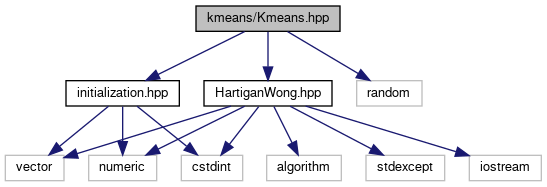
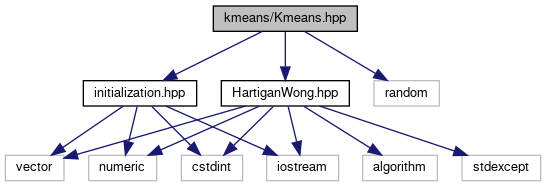
Deploying to gh-pages from @ LTLA/CppKmeans@2d391ecacfeafa24bfdc393e0a3e87b4211ba4c6 🚀

diff --git a/docs/initialization_8hpp_source.html b/docs/initialization_8hpp_source.html
@@ -77,109 +77,112 @@ $(function() {
 <div class="line"><a name="l00004"></a><span class="lineno">    4</span>&#160;<span class="preprocessor">#include &lt;vector&gt;</span></div>
 <div class="line"><a name="l00005"></a><span class="lineno">    5</span>&#160;<span class="preprocessor">#include &lt;cstdint&gt;</span></div>
 <div class="line"><a name="l00006"></a><span class="lineno">    6</span>&#160;<span class="preprocessor">#include &lt;numeric&gt;</span></div>
-<div class="line"><a name="l00007"></a><span class="lineno">    7</span>&#160; </div>
-<div class="line"><a name="l00014"></a><span class="lineno">   14</span>&#160;<span class="keyword">namespace </span>kmeans {</div>
-<div class="line"><a name="l00015"></a><span class="lineno">   15</span>&#160; </div>
-<div class="line"><a name="l00019"></a><span class="lineno">   19</span>&#160;<span class="keyword">template</span>&lt;<span class="keyword">class</span> ENGINE&gt;</div>
-<div class="line"><a name="l00020"></a><span class="lineno">   20</span>&#160;<span class="keywordtype">double</span> uniform01 (ENGINE&amp; eng) {</div>
-<div class="line"><a name="l00021"></a><span class="lineno">   21</span>&#160;    <span class="comment">// Stolen from Boost.</span></div>
-<div class="line"><a name="l00022"></a><span class="lineno">   22</span>&#160;    <span class="keyword">const</span> <span class="keywordtype">double</span> factor = 1.0 / <span class="keyword">static_cast&lt;</span><span class="keywordtype">double</span><span class="keyword">&gt;</span>((eng.max)()-(eng.min)());</div>
-<div class="line"><a name="l00023"></a><span class="lineno">   23</span>&#160;    <span class="keywordtype">double</span> result;</div>
-<div class="line"><a name="l00024"></a><span class="lineno">   24</span>&#160;    <span class="keywordflow">do</span> {</div>
-<div class="line"><a name="l00025"></a><span class="lineno">   25</span>&#160;        result = <span class="keyword">static_cast&lt;</span><span class="keywordtype">double</span><span class="keyword">&gt;</span>(eng() - (eng.min)()) * factor;</div>
-<div class="line"><a name="l00026"></a><span class="lineno">   26</span>&#160;    } <span class="keywordflow">while</span> (result == 1.0);</div>
-<div class="line"><a name="l00027"></a><span class="lineno">   27</span>&#160;    <span class="keywordflow">return</span> result;</div>
-<div class="line"><a name="l00028"></a><span class="lineno">   28</span>&#160;}</div>
-<div class="line"><a name="l00057"></a><span class="lineno">   57</span>&#160;<span class="keyword">template</span>&lt;<span class="keyword">class</span> ENGINE&gt;</div>
-<div class="line"><a name="l00058"></a><span class="lineno"><a class="line" href="initialization_8hpp.html#a7c2b486f25d954fd2a90846ea658e4c6">   58</a></span>&#160;std::vector&lt;int&gt; <a class="code" href="initialization_8hpp.html#a7c2b486f25d954fd2a90846ea658e4c6">weighted_initialization</a>(<span class="keywordtype">int</span> nd, <span class="keywordtype">int</span> no, <span class="keyword">const</span> <span class="keywordtype">double</span>* data, <span class="keywordtype">int</span> ncenters, ENGINE&amp; eng) {</div>
-<div class="line"><a name="l00059"></a><span class="lineno">   59</span>&#160;    std::vector&lt;int&gt; targets(no);</div>
-<div class="line"><a name="l00060"></a><span class="lineno">   60</span>&#160;    std::vector&lt;double&gt; mindist(no, 1);</div>
-<div class="line"><a name="l00061"></a><span class="lineno">   61</span>&#160;    std::vector&lt;double&gt; cumulative(no);</div>
-<div class="line"><a name="l00062"></a><span class="lineno">   62</span>&#160;    std::vector&lt;uint8_t&gt; chosen(no);</div>
-<div class="line"><a name="l00063"></a><span class="lineno">   63</span>&#160;    std::vector&lt;int&gt; sofar;</div>
-<div class="line"><a name="l00064"></a><span class="lineno">   64</span>&#160;    sofar.reserve(ncenters);</div>
-<div class="line"><a name="l00065"></a><span class="lineno">   65</span>&#160; </div>
-<div class="line"><a name="l00066"></a><span class="lineno">   66</span>&#160;    <span class="keywordflow">for</span> (<span class="keywordtype">int</span> cen = 0; cen &lt; ncenters; ++cen) {</div>
-<div class="line"><a name="l00067"></a><span class="lineno">   67</span>&#160;        <span class="keywordtype">int</span> counter = 0;</div>
-<div class="line"><a name="l00068"></a><span class="lineno">   68</span>&#160;        <span class="keywordflow">if</span> (!sofar.empty()) {</div>
-<div class="line"><a name="l00069"></a><span class="lineno">   69</span>&#160;            <span class="keywordflow">for</span> (<span class="keywordtype">int</span> obs = 0; obs &lt; no; ++obs) {</div>
-<div class="line"><a name="l00070"></a><span class="lineno">   70</span>&#160;                <span class="keywordflow">if</span> (!chosen[obs]) {</div>
-<div class="line"><a name="l00071"></a><span class="lineno">   71</span>&#160;                    targets[counter] = obs;</div>
-<div class="line"><a name="l00072"></a><span class="lineno">   72</span>&#160;                    <span class="keywordtype">double</span>&amp; curmin = mindist[counter];</div>
-<div class="line"><a name="l00073"></a><span class="lineno">   73</span>&#160;                    curmin = -1;</div>
-<div class="line"><a name="l00074"></a><span class="lineno">   74</span>&#160; </div>
-<div class="line"><a name="l00075"></a><span class="lineno">   75</span>&#160;                    <span class="keywordflow">for</span> (<span class="keyword">auto</span> so : sofar) {</div>
-<div class="line"><a name="l00076"></a><span class="lineno">   76</span>&#160;                        <span class="keyword">const</span> <span class="keywordtype">double</span>* acopy = data + obs * nd;</div>
-<div class="line"><a name="l00077"></a><span class="lineno">   77</span>&#160;                        <span class="keyword">const</span> <span class="keywordtype">double</span>* scopy = data + so * nd;</div>
-<div class="line"><a name="l00078"></a><span class="lineno">   78</span>&#160;                        <span class="keywordtype">double</span> r2 = 0;</div>
-<div class="line"><a name="l00079"></a><span class="lineno">   79</span>&#160;                        <span class="keywordflow">for</span> (<span class="keywordtype">int</span> dim = 0; dim &lt; nd; ++dim, ++acopy, ++scopy) {</div>
-<div class="line"><a name="l00080"></a><span class="lineno">   80</span>&#160;                            r2 += (*acopy - *scopy) * (*acopy - *scopy);</div>
-<div class="line"><a name="l00081"></a><span class="lineno">   81</span>&#160;                        }</div>
-<div class="line"><a name="l00082"></a><span class="lineno">   82</span>&#160; </div>
-<div class="line"><a name="l00083"></a><span class="lineno">   83</span>&#160;                        <span class="keywordflow">if</span> (curmin &lt; 0 || r2 &lt; curmin) {</div>
-<div class="line"><a name="l00084"></a><span class="lineno">   84</span>&#160;                            curmin = r2;</div>
-<div class="line"><a name="l00085"></a><span class="lineno">   85</span>&#160;                        }</div>
+<div class="line"><a name="l00007"></a><span class="lineno">    7</span>&#160;<span class="preprocessor">#include &lt;iostream&gt;</span></div>
+<div class="line"><a name="l00008"></a><span class="lineno">    8</span>&#160; </div>
+<div class="line"><a name="l00015"></a><span class="lineno">   15</span>&#160;<span class="keyword">namespace </span>kmeans {</div>
+<div class="line"><a name="l00016"></a><span class="lineno">   16</span>&#160; </div>
+<div class="line"><a name="l00020"></a><span class="lineno">   20</span>&#160;<span class="keyword">template</span>&lt;<span class="keyword">class</span> ENGINE&gt;</div>
+<div class="line"><a name="l00021"></a><span class="lineno">   21</span>&#160;<span class="keywordtype">double</span> uniform01 (ENGINE&amp; eng) {</div>
+<div class="line"><a name="l00022"></a><span class="lineno">   22</span>&#160;    <span class="comment">// Stolen from Boost.</span></div>
+<div class="line"><a name="l00023"></a><span class="lineno">   23</span>&#160;    <span class="keyword">const</span> <span class="keywordtype">double</span> factor = 1.0 / <span class="keyword">static_cast&lt;</span><span class="keywordtype">double</span><span class="keyword">&gt;</span>((eng.max)()-(eng.min)());</div>
+<div class="line"><a name="l00024"></a><span class="lineno">   24</span>&#160;    <span class="keywordtype">double</span> result;</div>
+<div class="line"><a name="l00025"></a><span class="lineno">   25</span>&#160;    <span class="keywordflow">do</span> {</div>
+<div class="line"><a name="l00026"></a><span class="lineno">   26</span>&#160;        result = <span class="keyword">static_cast&lt;</span><span class="keywordtype">double</span><span class="keyword">&gt;</span>(eng() - (eng.min)()) * factor;</div>
+<div class="line"><a name="l00027"></a><span class="lineno">   27</span>&#160;    } <span class="keywordflow">while</span> (result == 1.0);</div>
+<div class="line"><a name="l00028"></a><span class="lineno">   28</span>&#160;    <span class="keywordflow">return</span> result;</div>
+<div class="line"><a name="l00029"></a><span class="lineno">   29</span>&#160;}</div>
+<div class="line"><a name="l00058"></a><span class="lineno">   58</span>&#160;<span class="keyword">template</span>&lt;<span class="keyword">class</span> ENGINE&gt;</div>
+<div class="line"><a name="l00059"></a><span class="lineno"><a class="line" href="initialization_8hpp.html#a7c2b486f25d954fd2a90846ea658e4c6">   59</a></span>&#160;std::vector&lt;int&gt; <a class="code" href="initialization_8hpp.html#a7c2b486f25d954fd2a90846ea658e4c6">weighted_initialization</a>(<span class="keywordtype">int</span> nd, <span class="keywordtype">int</span> no, <span class="keyword">const</span> <span class="keywordtype">double</span>* data, <span class="keywordtype">int</span> ncenters, ENGINE&amp; eng) {</div>
+<div class="line"><a name="l00060"></a><span class="lineno">   60</span>&#160;    std::vector&lt;int&gt; targets(no);</div>
+<div class="line"><a name="l00061"></a><span class="lineno">   61</span>&#160;    std::vector&lt;double&gt; mindist(no, 1);</div>
+<div class="line"><a name="l00062"></a><span class="lineno">   62</span>&#160;    std::vector&lt;double&gt; cumulative(no);</div>
+<div class="line"><a name="l00063"></a><span class="lineno">   63</span>&#160;    std::vector&lt;uint8_t&gt; chosen(no);</div>
+<div class="line"><a name="l00064"></a><span class="lineno">   64</span>&#160;    std::vector&lt;int&gt; sofar;</div>
+<div class="line"><a name="l00065"></a><span class="lineno">   65</span>&#160;    sofar.reserve(ncenters);</div>
+<div class="line"><a name="l00066"></a><span class="lineno">   66</span>&#160; </div>
+<div class="line"><a name="l00067"></a><span class="lineno">   67</span>&#160;    <span class="keywordflow">for</span> (<span class="keywordtype">int</span> cen = 0; cen &lt; ncenters; ++cen) {</div>
+<div class="line"><a name="l00068"></a><span class="lineno">   68</span>&#160;        <span class="keywordtype">int</span> counter = 0;</div>
+<div class="line"><a name="l00069"></a><span class="lineno">   69</span>&#160;        <span class="keywordflow">if</span> (!sofar.empty()) {</div>
+<div class="line"><a name="l00070"></a><span class="lineno">   70</span>&#160;            <span class="keyword">auto</span> last = sofar.back();</div>
+<div class="line"><a name="l00071"></a><span class="lineno">   71</span>&#160;            <span class="keywordtype">int</span> prevcounter = 0;</div>
+<div class="line"><a name="l00072"></a><span class="lineno">   72</span>&#160; </div>
+<div class="line"><a name="l00073"></a><span class="lineno">   73</span>&#160;            <span class="keywordflow">for</span> (<span class="keywordtype">int</span> obs = 0; obs &lt; no; ++obs) {</div>
+<div class="line"><a name="l00074"></a><span class="lineno">   74</span>&#160;                <span class="keywordflow">if</span> (!chosen[obs]) {</div>
+<div class="line"><a name="l00075"></a><span class="lineno">   75</span>&#160;                    <span class="keyword">const</span> <span class="keywordtype">double</span>* acopy = data + obs * nd;</div>
+<div class="line"><a name="l00076"></a><span class="lineno">   76</span>&#160;                    <span class="keyword">const</span> <span class="keywordtype">double</span>* scopy = data + last * nd;</div>
+<div class="line"><a name="l00077"></a><span class="lineno">   77</span>&#160;                    <span class="keywordtype">double</span> r2 = 0;</div>
+<div class="line"><a name="l00078"></a><span class="lineno">   78</span>&#160;                    <span class="keywordflow">for</span> (<span class="keywordtype">int</span> dim = 0; dim &lt; nd; ++dim, ++acopy, ++scopy) {</div>
+<div class="line"><a name="l00079"></a><span class="lineno">   79</span>&#160;                        r2 += (*acopy - *scopy) * (*acopy - *scopy);</div>
+<div class="line"><a name="l00080"></a><span class="lineno">   80</span>&#160;                    }</div>
+<div class="line"><a name="l00081"></a><span class="lineno">   81</span>&#160; </div>
+<div class="line"><a name="l00082"></a><span class="lineno">   82</span>&#160;                    <span class="keywordflow">if</span> (cen == 1 || r2 &lt; mindist[prevcounter]) {</div>
+<div class="line"><a name="l00083"></a><span class="lineno">   83</span>&#160;                        mindist[counter] = r2;</div>
+<div class="line"><a name="l00084"></a><span class="lineno">   84</span>&#160;                    } <span class="keywordflow">else</span> <span class="keywordflow">if</span> (counter != prevcounter) {</div>
+<div class="line"><a name="l00085"></a><span class="lineno">   85</span>&#160;                        mindist[counter] = mindist[prevcounter];</div>
 <div class="line"><a name="l00086"></a><span class="lineno">   86</span>&#160;                    }</div>
-<div class="line"><a name="l00087"></a><span class="lineno">   87</span>&#160; </div>
+<div class="line"><a name="l00087"></a><span class="lineno">   87</span>&#160;                    targets[counter] = obs;</div>
 <div class="line"><a name="l00088"></a><span class="lineno">   88</span>&#160;                    ++counter;</div>
-<div class="line"><a name="l00089"></a><span class="lineno">   89</span>&#160;                }</div>
-<div class="line"><a name="l00090"></a><span class="lineno">   90</span>&#160;            }</div>
-<div class="line"><a name="l00091"></a><span class="lineno">   91</span>&#160;        } <span class="keywordflow">else</span> {</div>
-<div class="line"><a name="l00092"></a><span class="lineno">   92</span>&#160;            std::iota(targets.begin(), targets.end(), 0);</div>
-<div class="line"><a name="l00093"></a><span class="lineno">   93</span>&#160;            counter = no;</div>
-<div class="line"><a name="l00094"></a><span class="lineno">   94</span>&#160;        }</div>
-<div class="line"><a name="l00095"></a><span class="lineno">   95</span>&#160; </div>
-<div class="line"><a name="l00096"></a><span class="lineno">   96</span>&#160;        <span class="keywordflow">if</span> (!counter) {</div>
-<div class="line"><a name="l00097"></a><span class="lineno">   97</span>&#160;            <span class="keywordflow">break</span>;</div>
-<div class="line"><a name="l00098"></a><span class="lineno">   98</span>&#160;        }</div>
-<div class="line"><a name="l00099"></a><span class="lineno">   99</span>&#160; </div>
-<div class="line"><a name="l00100"></a><span class="lineno">  100</span>&#160;        cumulative[0] = mindist[0];</div>
-<div class="line"><a name="l00101"></a><span class="lineno">  101</span>&#160;        <span class="keywordflow">for</span> (<span class="keywordtype">int</span> i = 1; i &lt; counter; ++i) {</div>
-<div class="line"><a name="l00102"></a><span class="lineno">  102</span>&#160;            cumulative[i] = cumulative[i-1] + mindist[i];</div>
-<div class="line"><a name="l00103"></a><span class="lineno">  103</span>&#160;        }</div>
-<div class="line"><a name="l00104"></a><span class="lineno">  104</span>&#160; </div>
-<div class="line"><a name="l00105"></a><span class="lineno">  105</span>&#160;        <span class="keyword">const</span> <span class="keywordtype">double</span> total = cumulative[counter-1];</div>
-<div class="line"><a name="l00106"></a><span class="lineno">  106</span>&#160;        <span class="keywordflow">if</span> (total == 0) { <span class="comment">// a.k.a. duplicates.</span></div>
-<div class="line"><a name="l00107"></a><span class="lineno">  107</span>&#160;            <span class="keywordflow">break</span>;</div>
-<div class="line"><a name="l00108"></a><span class="lineno">  108</span>&#160;        }</div>
-<div class="line"><a name="l00109"></a><span class="lineno">  109</span>&#160; </div>
-<div class="line"><a name="l00110"></a><span class="lineno">  110</span>&#160;        <span class="keyword">const</span> <span class="keywordtype">double</span> chosen_weight = total * uniform01(eng);</div>
-<div class="line"><a name="l00111"></a><span class="lineno">  111</span>&#160;        <span class="keyword">auto</span> chosen_pos = std::lower_bound(cumulative.begin(), cumulative.begin() + counter, chosen_weight);</div>
-<div class="line"><a name="l00112"></a><span class="lineno">  112</span>&#160;        <span class="keyword">auto</span> chosen_id = targets[chosen_pos - cumulative.begin()];</div>
-<div class="line"><a name="l00113"></a><span class="lineno">  113</span>&#160;        chosen[chosen_id] = <span class="keyword">true</span>;</div>
-<div class="line"><a name="l00114"></a><span class="lineno">  114</span>&#160;        sofar.push_back(chosen_id);</div>
-<div class="line"><a name="l00115"></a><span class="lineno">  115</span>&#160;    }</div>
-<div class="line"><a name="l00116"></a><span class="lineno">  116</span>&#160; </div>
-<div class="line"><a name="l00117"></a><span class="lineno">  117</span>&#160;    <span class="keywordflow">return</span> sofar;</div>
-<div class="line"><a name="l00118"></a><span class="lineno">  118</span>&#160;}</div>
+<div class="line"><a name="l00089"></a><span class="lineno">   89</span>&#160;                    ++prevcounter;</div>
+<div class="line"><a name="l00090"></a><span class="lineno">   90</span>&#160;                } <span class="keywordflow">else</span> <span class="keywordflow">if</span> (obs == last) {</div>
+<div class="line"><a name="l00091"></a><span class="lineno">   91</span>&#160;                    ++prevcounter;</div>
+<div class="line"><a name="l00092"></a><span class="lineno">   92</span>&#160;                }</div>
+<div class="line"><a name="l00093"></a><span class="lineno">   93</span>&#160;            }</div>
+<div class="line"><a name="l00094"></a><span class="lineno">   94</span>&#160;        } <span class="keywordflow">else</span> {</div>
+<div class="line"><a name="l00095"></a><span class="lineno">   95</span>&#160;            std::iota(targets.begin(), targets.end(), 0);</div>
+<div class="line"><a name="l00096"></a><span class="lineno">   96</span>&#160;            counter = no;</div>
+<div class="line"><a name="l00097"></a><span class="lineno">   97</span>&#160;        }</div>
+<div class="line"><a name="l00098"></a><span class="lineno">   98</span>&#160; </div>
+<div class="line"><a name="l00099"></a><span class="lineno">   99</span>&#160;        <span class="keywordflow">if</span> (!counter) {</div>
+<div class="line"><a name="l00100"></a><span class="lineno">  100</span>&#160;            <span class="keywordflow">break</span>;</div>
+<div class="line"><a name="l00101"></a><span class="lineno">  101</span>&#160;        }</div>
+<div class="line"><a name="l00102"></a><span class="lineno">  102</span>&#160; </div>
+<div class="line"><a name="l00103"></a><span class="lineno">  103</span>&#160;        cumulative[0] = mindist[0];</div>
+<div class="line"><a name="l00104"></a><span class="lineno">  104</span>&#160;        <span class="keywordflow">for</span> (<span class="keywordtype">int</span> i = 1; i &lt; counter; ++i) {</div>
+<div class="line"><a name="l00105"></a><span class="lineno">  105</span>&#160;            cumulative[i] = cumulative[i-1] + mindist[i];</div>
+<div class="line"><a name="l00106"></a><span class="lineno">  106</span>&#160;        }</div>
+<div class="line"><a name="l00107"></a><span class="lineno">  107</span>&#160; </div>
+<div class="line"><a name="l00108"></a><span class="lineno">  108</span>&#160;        <span class="keyword">const</span> <span class="keywordtype">double</span> total = cumulative[counter-1];</div>
+<div class="line"><a name="l00109"></a><span class="lineno">  109</span>&#160;        <span class="keywordflow">if</span> (total == 0) { <span class="comment">// a.k.a. duplicates.</span></div>
+<div class="line"><a name="l00110"></a><span class="lineno">  110</span>&#160;            <span class="keywordflow">break</span>;</div>
+<div class="line"><a name="l00111"></a><span class="lineno">  111</span>&#160;        }</div>
+<div class="line"><a name="l00112"></a><span class="lineno">  112</span>&#160; </div>
+<div class="line"><a name="l00113"></a><span class="lineno">  113</span>&#160;        <span class="keyword">const</span> <span class="keywordtype">double</span> chosen_weight = total * uniform01(eng);</div>
+<div class="line"><a name="l00114"></a><span class="lineno">  114</span>&#160;        <span class="keyword">auto</span> chosen_pos = std::lower_bound(cumulative.begin(), cumulative.begin() + counter, chosen_weight);</div>
+<div class="line"><a name="l00115"></a><span class="lineno">  115</span>&#160;        <span class="keyword">auto</span> chosen_id = targets[chosen_pos - cumulative.begin()];</div>
+<div class="line"><a name="l00116"></a><span class="lineno">  116</span>&#160;        chosen[chosen_id] = <span class="keyword">true</span>;</div>
+<div class="line"><a name="l00117"></a><span class="lineno">  117</span>&#160;        sofar.push_back(chosen_id);</div>
+<div class="line"><a name="l00118"></a><span class="lineno">  118</span>&#160;    }</div>
 <div class="line"><a name="l00119"></a><span class="lineno">  119</span>&#160; </div>
-<div class="line"><a name="l00135"></a><span class="lineno">  135</span>&#160;<span class="keyword">template</span>&lt;<span class="keyword">class</span> ENGINE&gt;</div>
-<div class="line"><a name="l00136"></a><span class="lineno"><a class="line" href="initialization_8hpp.html#a3c109f946286d0ec3a0d0d5de063d1ac">  136</a></span>&#160;std::vector&lt;int&gt; <a class="code" href="initialization_8hpp.html#a3c109f946286d0ec3a0d0d5de063d1ac">simple_initialization</a>(<span class="keywordtype">int</span> nd, <span class="keywordtype">int</span> no, <span class="keyword">const</span> <span class="keywordtype">double</span>* data, <span class="keywordtype">int</span> ncenters, ENGINE&amp; eng) {</div>
-<div class="line"><a name="l00137"></a><span class="lineno">  137</span>&#160;    std::vector&lt;int&gt; sofar;</div>
-<div class="line"><a name="l00138"></a><span class="lineno">  138</span>&#160; </div>
-<div class="line"><a name="l00139"></a><span class="lineno">  139</span>&#160;    <span class="keywordflow">if</span> (ncenters &gt;= no) {</div>
-<div class="line"><a name="l00140"></a><span class="lineno">  140</span>&#160;        sofar.resize(no);</div>
-<div class="line"><a name="l00141"></a><span class="lineno">  141</span>&#160;        std::iota(sofar.begin(), sofar.end(), 0);</div>
-<div class="line"><a name="l00142"></a><span class="lineno">  142</span>&#160;    } <span class="keywordflow">else</span> {</div>
-<div class="line"><a name="l00143"></a><span class="lineno">  143</span>&#160;        sofar.reserve(ncenters);</div>
-<div class="line"><a name="l00144"></a><span class="lineno">  144</span>&#160;        <span class="keywordtype">int</span> traversed = 0;</div>
-<div class="line"><a name="l00145"></a><span class="lineno">  145</span>&#160; </div>
-<div class="line"><a name="l00146"></a><span class="lineno">  146</span>&#160;        <span class="keywordflow">while</span> (sofar.size() &lt; <span class="keyword">static_cast&lt;</span><span class="keywordtype">size_t</span><span class="keyword">&gt;</span>(ncenters)) {</div>
-<div class="line"><a name="l00147"></a><span class="lineno">  147</span>&#160;            <span class="keywordflow">if</span> (<span class="keyword">static_cast&lt;</span><span class="keywordtype">double</span><span class="keyword">&gt;</span>(ncenters - sofar.size()) &gt; <span class="keyword">static_cast&lt;</span><span class="keywordtype">double</span><span class="keyword">&gt;</span>(no - traversed) * uniform01(eng)) {</div>
-<div class="line"><a name="l00148"></a><span class="lineno">  148</span>&#160;                sofar.push_back(traversed);</div>
-<div class="line"><a name="l00149"></a><span class="lineno">  149</span>&#160;            }</div>
-<div class="line"><a name="l00150"></a><span class="lineno">  150</span>&#160;            ++traversed;</div>
-<div class="line"><a name="l00151"></a><span class="lineno">  151</span>&#160;        }</div>
-<div class="line"><a name="l00152"></a><span class="lineno">  152</span>&#160;    }</div>
-<div class="line"><a name="l00153"></a><span class="lineno">  153</span>&#160; </div>
-<div class="line"><a name="l00154"></a><span class="lineno">  154</span>&#160;    <span class="keywordflow">return</span> sofar;</div>
-<div class="line"><a name="l00155"></a><span class="lineno">  155</span>&#160;}</div>
+<div class="line"><a name="l00120"></a><span class="lineno">  120</span>&#160;    <span class="keywordflow">return</span> sofar;</div>
+<div class="line"><a name="l00121"></a><span class="lineno">  121</span>&#160;}</div>
+<div class="line"><a name="l00122"></a><span class="lineno">  122</span>&#160; </div>
+<div class="line"><a name="l00138"></a><span class="lineno">  138</span>&#160;<span class="keyword">template</span>&lt;<span class="keyword">class</span> ENGINE&gt;</div>
+<div class="line"><a name="l00139"></a><span class="lineno"><a class="line" href="initialization_8hpp.html#a3c109f946286d0ec3a0d0d5de063d1ac">  139</a></span>&#160;std::vector&lt;int&gt; <a class="code" href="initialization_8hpp.html#a3c109f946286d0ec3a0d0d5de063d1ac">simple_initialization</a>(<span class="keywordtype">int</span> nd, <span class="keywordtype">int</span> no, <span class="keyword">const</span> <span class="keywordtype">double</span>* data, <span class="keywordtype">int</span> ncenters, ENGINE&amp; eng) {</div>
+<div class="line"><a name="l00140"></a><span class="lineno">  140</span>&#160;    std::vector&lt;int&gt; sofar;</div>
+<div class="line"><a name="l00141"></a><span class="lineno">  141</span>&#160; </div>
+<div class="line"><a name="l00142"></a><span class="lineno">  142</span>&#160;    <span class="keywordflow">if</span> (ncenters &gt;= no) {</div>
+<div class="line"><a name="l00143"></a><span class="lineno">  143</span>&#160;        sofar.resize(no);</div>
+<div class="line"><a name="l00144"></a><span class="lineno">  144</span>&#160;        std::iota(sofar.begin(), sofar.end(), 0);</div>
+<div class="line"><a name="l00145"></a><span class="lineno">  145</span>&#160;    } <span class="keywordflow">else</span> {</div>
+<div class="line"><a name="l00146"></a><span class="lineno">  146</span>&#160;        sofar.reserve(ncenters);</div>
+<div class="line"><a name="l00147"></a><span class="lineno">  147</span>&#160;        <span class="keywordtype">int</span> traversed = 0;</div>
+<div class="line"><a name="l00148"></a><span class="lineno">  148</span>&#160; </div>
+<div class="line"><a name="l00149"></a><span class="lineno">  149</span>&#160;        <span class="keywordflow">while</span> (sofar.size() &lt; <span class="keyword">static_cast&lt;</span><span class="keywordtype">size_t</span><span class="keyword">&gt;</span>(ncenters)) {</div>
+<div class="line"><a name="l00150"></a><span class="lineno">  150</span>&#160;            <span class="keywordflow">if</span> (<span class="keyword">static_cast&lt;</span><span class="keywordtype">double</span><span class="keyword">&gt;</span>(ncenters - sofar.size()) &gt; <span class="keyword">static_cast&lt;</span><span class="keywordtype">double</span><span class="keyword">&gt;</span>(no - traversed) * uniform01(eng)) {</div>
+<div class="line"><a name="l00151"></a><span class="lineno">  151</span>&#160;                sofar.push_back(traversed);</div>
+<div class="line"><a name="l00152"></a><span class="lineno">  152</span>&#160;            }</div>
+<div class="line"><a name="l00153"></a><span class="lineno">  153</span>&#160;            ++traversed;</div>
+<div class="line"><a name="l00154"></a><span class="lineno">  154</span>&#160;        }</div>
+<div class="line"><a name="l00155"></a><span class="lineno">  155</span>&#160;    }</div>
 <div class="line"><a name="l00156"></a><span class="lineno">  156</span>&#160; </div>
-<div class="line"><a name="l00157"></a><span class="lineno">  157</span>&#160;}</div>
-<div class="line"><a name="l00158"></a><span class="lineno">  158</span>&#160; </div>
-<div class="line"><a name="l00159"></a><span class="lineno">  159</span>&#160;<span class="preprocessor">#endif</span></div>
-<div class="ttc" id="ainitialization_8hpp_html_a3c109f946286d0ec3a0d0d5de063d1ac"><div class="ttname"><a href="initialization_8hpp.html#a3c109f946286d0ec3a0d0d5de063d1ac">kmeans::simple_initialization</a></div><div class="ttdeci">std::vector&lt; int &gt; simple_initialization(int nd, int no, const double *data, int ncenters, ENGINE &amp;eng)</div><div class="ttdef"><b>Definition:</b> initialization.hpp:136</div></div>
-<div class="ttc" id="ainitialization_8hpp_html_a7c2b486f25d954fd2a90846ea658e4c6"><div class="ttname"><a href="initialization_8hpp.html#a7c2b486f25d954fd2a90846ea658e4c6">kmeans::weighted_initialization</a></div><div class="ttdeci">std::vector&lt; int &gt; weighted_initialization(int nd, int no, const double *data, int ncenters, ENGINE &amp;eng)</div><div class="ttdef"><b>Definition:</b> initialization.hpp:58</div></div>
+<div class="line"><a name="l00157"></a><span class="lineno">  157</span>&#160;    <span class="keywordflow">return</span> sofar;</div>
+<div class="line"><a name="l00158"></a><span class="lineno">  158</span>&#160;}</div>
+<div class="line"><a name="l00159"></a><span class="lineno">  159</span>&#160; </div>
+<div class="line"><a name="l00160"></a><span class="lineno">  160</span>&#160;}</div>
+<div class="line"><a name="l00161"></a><span class="lineno">  161</span>&#160; </div>
+<div class="line"><a name="l00162"></a><span class="lineno">  162</span>&#160;<span class="preprocessor">#endif</span></div>
+<div class="ttc" id="ainitialization_8hpp_html_a3c109f946286d0ec3a0d0d5de063d1ac"><div class="ttname"><a href="initialization_8hpp.html#a3c109f946286d0ec3a0d0d5de063d1ac">kmeans::simple_initialization</a></div><div class="ttdeci">std::vector&lt; int &gt; simple_initialization(int nd, int no, const double *data, int ncenters, ENGINE &amp;eng)</div><div class="ttdef"><b>Definition:</b> initialization.hpp:139</div></div>
+<div class="ttc" id="ainitialization_8hpp_html_a7c2b486f25d954fd2a90846ea658e4c6"><div class="ttname"><a href="initialization_8hpp.html#a7c2b486f25d954fd2a90846ea658e4c6">kmeans::weighted_initialization</a></div><div class="ttdeci">std::vector&lt; int &gt; weighted_initialization(int nd, int no, const double *data, int ncenters, ENGINE &amp;eng)</div><div class="ttdef"><b>Definition:</b> initialization.hpp:59</div></div>
 </div><!-- fragment --></div><!-- contents -->
 <!-- start footer part -->
 <hr class="footer"/><address class="footer"><small>

diff --git a/docs/Kmeans_8hpp_source.html b/docs/Kmeans_8hpp_source.html
@@ -164,7 +164,7 @@ $(function() {
 <div class="ttc" id="aclasskmeans_1_1Kmeans_html_ab911744c63e37439104a8c72e914557a"><div class="ttname"><a href="classkmeans_1_1Kmeans.html#ab911744c63e37439104a8c72e914557a">kmeans::Kmeans::set_seed</a></div><div class="ttdeci">Kmeans &amp; set_seed(bool s=5489u)</div><div class="ttdef"><b>Definition:</b> Kmeans.hpp:49</div></div>
 <div class="ttc" id="aclasskmeans_1_1Kmeans_html_af44ff598bb0b8989e1029baf63e31b72"><div class="ttname"><a href="classkmeans_1_1Kmeans.html#af44ff598bb0b8989e1029baf63e31b72">kmeans::Kmeans::set_max_iterations</a></div><div class="ttdeci">Kmeans &amp; set_max_iterations(int m)</div><div class="ttdef"><b>Definition:</b> Kmeans.hpp:69</div></div>
 <div class="ttc" id="ainitialization_8hpp_html"><div class="ttname"><a href="initialization_8hpp.html">initialization.hpp</a></div><div class="ttdoc">Initialization methods to choose the starting centroids.</div></div>
-<div class="ttc" id="ainitialization_8hpp_html_a7c2b486f25d954fd2a90846ea658e4c6"><div class="ttname"><a href="initialization_8hpp.html#a7c2b486f25d954fd2a90846ea658e4c6">kmeans::weighted_initialization</a></div><div class="ttdeci">std::vector&lt; int &gt; weighted_initialization(int nd, int no, const double *data, int ncenters, ENGINE &amp;eng)</div><div class="ttdef"><b>Definition:</b> initialization.hpp:58</div></div>
+<div class="ttc" id="ainitialization_8hpp_html_a7c2b486f25d954fd2a90846ea658e4c6"><div class="ttname"><a href="initialization_8hpp.html#a7c2b486f25d954fd2a90846ea658e4c6">kmeans::weighted_initialization</a></div><div class="ttdeci">std::vector&lt; int &gt; weighted_initialization(int nd, int no, const double *data, int ncenters, ENGINE &amp;eng)</div><div class="ttdef"><b>Definition:</b> initialization.hpp:59</div></div>
 <div class="ttc" id="astructkmeans_1_1HartiganWong_1_1Details_html"><div class="ttname"><a href="structkmeans_1_1HartiganWong_1_1Details.html">kmeans::HartiganWong::Details</a></div><div class="ttdoc">Additional statistics from the Hartigan-Wong algorithm.</div><div class="ttdef"><b>Definition:</b> HartiganWong.hpp:73</div></div>
 <div class="ttc" id="astructkmeans_1_1Kmeans_1_1Results_html"><div class="ttname"><a href="structkmeans_1_1Kmeans_1_1Results.html">kmeans::Kmeans::Results</a></div><div class="ttdoc">Full statistics from k-means clustering.</div><div class="ttdef"><b>Definition:</b> Kmeans.hpp:119</div></div>
 <div class="ttc" id="astructkmeans_1_1Kmeans_1_1Results_html_a1cd3045899d05ae4bc70a3b749e96c69"><div class="ttname"><a href="structkmeans_1_1Kmeans_1_1Results.html#a1cd3045899d05ae4bc70a3b749e96c69">kmeans::Kmeans::Results::details</a></div><div class="ttdeci">HartiganWong::Details details</div><div class="ttdef"><b>Definition:</b> Kmeans.hpp:141</div></div>

diff --git a/docs/Kmeans_8hpp.html b/docs/Kmeans_8hpp.html
@@ -84,16 +84,16 @@ Include dependency graph for Kmeans.hpp:</div>
 <div class="dyncontent">
 <div class="center"><img src="Kmeans_8hpp__incl.png" border="0" usemap="#akmeans_2Kmeans_8hpp" alt=""/></div>
 <map name="akmeans_2Kmeans_8hpp" id="akmeans_2Kmeans_8hpp">
-<area shape="rect" title="Implements the full k&#45;means clustering procedure." alt="" coords="196,5,340,32"/>
-<area shape="rect" href="HartiganWong_8hpp.html" title="Implements the Hartigan&#45;Wong algorithm for k&#45;means clustering." alt="" coords="204,80,332,107"/>
-<area shape="rect" href="initialization_8hpp.html" title="Initialization methods to choose the starting centroids." alt="" coords="66,80,179,107"/>
-<area shape="rect" title=" " alt="" coords="357,80,422,107"/>
+<area shape="rect" title="Implements the full k&#45;means clustering procedure." alt="" coords="213,5,357,32"/>
+<area shape="rect" href="HartiganWong_8hpp.html" title="Implements the Hartigan&#45;Wong algorithm for k&#45;means clustering." alt="" coords="221,80,349,107"/>
+<area shape="rect" href="initialization_8hpp.html" title="Initialization methods to choose the starting centroids." alt="" coords="83,80,197,107"/>
+<area shape="rect" title=" " alt="" coords="374,80,439,107"/>
 <area shape="rect" title=" " alt="" coords="5,155,64,181"/>
-<area shape="rect" title=" " alt="" coords="267,155,341,181"/>
+<area shape="rect" title=" " alt="" coords="363,155,437,181"/>
 <area shape="rect" title=" " alt="" coords="89,155,157,181"/>
 <area shape="rect" title=" " alt="" coords="181,155,243,181"/>
-<area shape="rect" title=" " alt="" coords="366,155,445,181"/>
-<area shape="rect" title=" " alt="" coords="469,155,541,181"/>
+<area shape="rect" title=" " alt="" coords="462,155,541,181"/>
+<area shape="rect" title=" " alt="" coords="267,155,339,181"/>
 </map>
 </div>
 </div>

diff --git a/docs/initialization_8hpp.html b/docs/initialization_8hpp.html
@@ -79,15 +79,17 @@ $(function() {
 <div class="textblock"><code>#include &lt;vector&gt;</code><br />
 <code>#include &lt;cstdint&gt;</code><br />
 <code>#include &lt;numeric&gt;</code><br />
+<code>#include &lt;iostream&gt;</code><br />
 </div><div class="textblock"><div class="dynheader">
 Include dependency graph for initialization.hpp:</div>
 <div class="dyncontent">
 <div class="center"><img src="initialization_8hpp__incl.png" border="0" usemap="#akmeans_2initialization_8hpp" alt=""/></div>
 <map name="akmeans_2initialization_8hpp" id="akmeans_2initialization_8hpp">
-<area shape="rect" title="Initialization methods to choose the starting centroids." alt="" coords="37,5,200,32"/>
+<area shape="rect" title="Initialization methods to choose the starting centroids." alt="" coords="81,5,244,32"/>
 <area shape="rect" title=" " alt="" coords="5,80,64,107"/>
 <area shape="rect" title=" " alt="" coords="88,80,149,107"/>
 <area shape="rect" title=" " alt="" coords="174,80,242,107"/>
+<area shape="rect" title=" " alt="" coords="267,80,339,107"/>
 </map>
 </div>
 </div><div class="textblock"><div class="dynheader">
